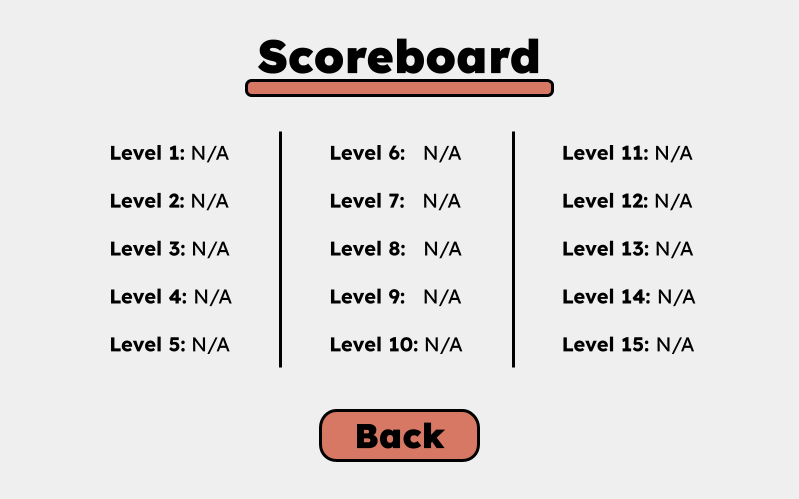
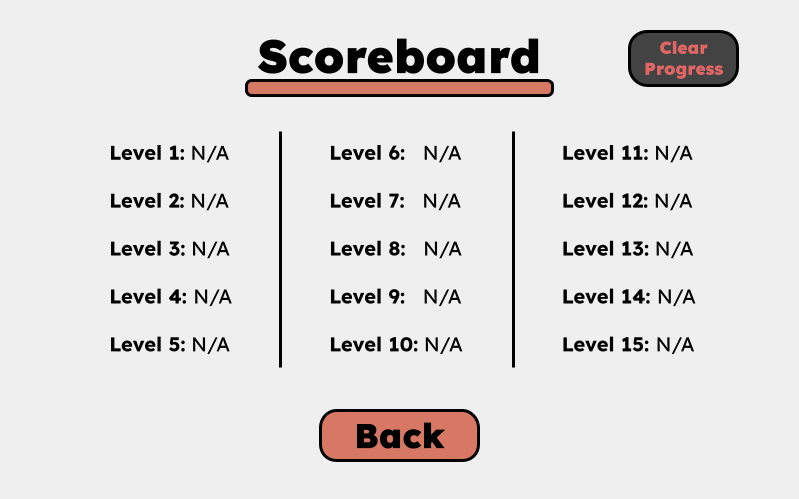
Added delete progress button

Changed region(s): [[0.781, 0.0601, 0.9312, 0.1804]]

diff --git a/main.py b/main.py
@@ -181,7 +181,6 @@ def displayBlankGameScreen(level):  # Displays the blank game screen
         displayCurrentLevelGoal(level)
     pygame.display.update()
 
-
 def displayWhiteScreen():  # Displays a white image on the entire screen
     # Creation of a white image (800x500) & placing the image on the screen
     whiteBackground = pygame.image.load('Assets/800x500WHITE.png').convert_alpha()
@@ -212,7 +211,6 @@ def displayCurrentLevelGoal(level):  # Displays the current level's goal to the 
     else:  # Error handling
         raise Exception("Inputted level is not valid.")
 
-
 def displayLevelExplanation(level):  # Displays the explanation for the level
     levelExplanationFileLocation = "Assets/Level" + str(level) + "Assets/Level " + str(level) + " Explanation.png"
     explanation = pygame.image.load(levelExplanationFileLocation).convert_alpha()
@@ -223,6 +221,13 @@ def displayLevelGoal(level):  # Displays the screen that further explains the le
     goal = pygame.image.load(levelEGoalFileLocation).convert_alpha()
     screen.blit(goal, origin)
         # STOP - Level Explanation, Goal Methods
+
+        # START - Scoreboard Menu Display Methods
+def displayScoreBoardMenuAreYouSure():
+    FileLocation = "Assets/Scoreboard AreYouSure Menu.png"
+    areYouSureMenu = pygame.image.load(FileLocation).convert_alpha()
+    screen.blit(areYouSureMenu, origin)
+        # STOP - Scoreboard Menu Display Methods
 
         # START - Non-image Based Display Methods
 def displayScoreBoardMenu():  # Displays the rough outline of the scoreboard menu
@@ -409,9 +414,35 @@ def howToPlayMenuHowDoIPlayButton_click(event):  # Displays the how to play menu
 def scoreBoardMenuBackButton_click(event):  # Back Button
     x, y = pygame.mouse.get_pos()
     if event.type == pygame.MOUSEBUTTONDOWN:
-        if (x > 320 and x < 480) and (y > 410 and y < 462):
-            print("Back Button Has Been Clicked")
-            return True
+        if ( state == "scoreBoardMenu"):
+            if (x > 320 and x < 480) and (y > 410 and y < 462):
+                print("Back Button Has Been Clicked")
+                return True
+
+def scoreBoardMenuClearProgressButton_click(event):  # Clears user progress
+    x, y = pygame.mouse.get_pos()
+    if event.type == pygame.MOUSEBUTTONDOWN:
+        if (state == "scoreBoardMenu"):
+            if (x > 628 and x < 740) and (y > 32 and y < 88):
+                print("Clear Progress Button Has Been Clicked")
+                return True
+
+            # START - Scoreboard Menu Are You Sure Buttons
+def scoreBoardAreYouSureMenuYesButton_click(event):
+    x, y = pygame.mouse.get_pos()
+    if event.type == pygame.MOUSEBUTTONDOWN:
+        if (state == "scoreBoardAreYouSureMenu"):
+            if (x > 150 and x < 352) and (y > 280 and y < 332):
+                print("Yes Button Has Been Clicked")
+                return True
+def scoreBoardAreYouSureMenuNoButton_click(event):
+    x, y = pygame.mouse.get_pos()
+    if event.type == pygame.MOUSEBUTTONDOWN:
+        if (state == "scoreBoardAreYouSureMenu"):
+            if (x > 440 and x < 644) and (y > 280 and y < 332):
+                print("No Button Has Been Clicked")
+                return True
+            # START - Scoreboard Menu Are You Sure Buttons
         # STOP - Scoreboard Menu
 
     # START - Credits Menu Buttons
@@ -481,6 +512,15 @@ def populateScoreBoardTextList(): # Populates a list of score board values based
         for line in f:  # Loops thru each line in the file
             scoreBoardTextList.append(line.strip())  # Appends the text from the file into a list to be used in order to display the scoreboard
     return scoreBoardTextList
+
+def clearUserProgress():  # Clears the scoreBoard.txt of data
+    scoreBoardFile = "scoreBoard.txt"
+    with open(scoreBoardFile, 'r') as file:
+        lines = file.readlines()
+
+    with open(scoreBoardFile, 'w') as file:
+        for _ in lines:
+            file.write('\n')
     # STOP - Scoreboard File Reading Methods
 
     # START - Highscore Checking method
@@ -539,7 +579,6 @@ def leftGateSelectButton(event):  # Changes the left qubit based on the selected
                 return True
 
 def resetLevelButton(event):  # Resets the level based on whatever level the player is currently on
-    # MISSING IMPLEMENTATION OF LEVEL-DEPENDENT RESET
     x, y = pygame.mouse.get_pos()
     if event.type == pygame.MOUSEBUTTONDOWN:
         if (state == "gamePlay"):
@@ -613,14 +652,6 @@ def levelSelectMenuBackButton(event, level):
             if (x > 635 and x < 772) and (y > 442 and y < 478):
                 print("Level Select Menu Back Button Has Been Clicked")
                 return True
-
-def displayGameUIAfterLevelSelectButtonClick():  # Displays the game screen fresh without resetting the circuit or gates
-    displayWhiteScreen()
-    displayBlankGameScreen(level)
-    displayCurrentGates(leftGateState, rightGateState)
-    displayMovesLeft(level, moveCount)
-    displayCurrentLevel(level)
-    showGame(game)
 
 def levelSelectSandboxButton(event):
     x, y = pygame.mouse.get_pos()
@@ -831,6 +862,14 @@ def bytes_to_pygame_image(bytes_io):
     # END - IMAGE CONVERSION
 
     # START - Quantum Method(s) Implementing "game_logic.py"
+def displayGameUIAfterLevelSelectButtonClick():  # Displays the game screen fresh without resetting the circuit or gates
+    displayWhiteScreen()
+    displayBlankGameScreen(level)
+    displayCurrentGates(leftGateState, rightGateState)
+    displayMovesLeft(level, moveCount)
+    displayCurrentLevel(level)
+    showGame(game)
+
 def initGame(): # init. a quantum game instance and returns said game
     game = QuantumGame(
         initialize = [],
@@ -1059,16 +1098,6 @@ while running:  # GAME LOOP
                     quit()
                     break
 
-            # Start Game Menu Button Control Flow
-            if ( state == "startGameMenu" ):
-                if ( startGameMenuBackButton_click(event) ):  # Back Button On Start Game Menu
-                    displayMainMenu()  # Displays the main menu
-                    state = "mainMenu"  # State change
-                    break
-                if ( startGameMenuGithubButton_click(event) ):  # Github Button On Start Game Menu
-                    openGithub()  # Opens the project's Github repository in a native google chrome instance
-                    break
-
             # How To Play Submenu(s) Button Control Flow
             if ( state == "howToPlayMenuSubMenu" ):
                 if ( howToPlayMenuBackButton_click(event) ):  # Back button (same function used in actual HTP menu)
@@ -1104,10 +1133,33 @@ while running:  # GAME LOOP
                     break
 
             # Scoreboard Menu Button Control Flow
-            if ( state == "scoreBoardMenu" ):
+            if ( state == "scoreBoardAreYouSureMenu"):  # Are you sure menu
+                x, y = pygame.mouse.get_pos()
+                print("X: " + str(x) + " Y: " + str(y))  # Helps with finding cursor for allocating space for buttons
+                if ( scoreBoardAreYouSureMenuYesButton_click(event)):  # If the yes button is clicked
+                    clearUserProgress()  # Clears the user's progress
+                    state = "scoreBoardMenu"  # State update
+                    displayScoreBoardMenu()  # Displays the scoreboard menu
+                    pygame.display.update()  # Update the screen
+                    break
+                pygame.display.update()  # Update the screen
+                if ( scoreBoardAreYouSureMenuNoButton_click(event)):  # If the no button is clicked
+                    state = "scoreBoardMenu"  # State update
+                    displayScoreBoardMenu()  # Displays the scoreboard menu
+                    pygame.display.update()  # Update the screen
+                    break
+
+
+
+            if ( state == "scoreBoardMenu" ):  # Normal scoreboard menu
                 if ( scoreBoardMenuBackButton_click(event) ):  # Back Button On How To Play Menu
                     displayMainMenu()  # Displays the main menu
                     state = "mainMenu"  # State change
+                    break
+                if ( scoreBoardMenuClearProgressButton_click(event) ):  # Clears the progress of the user
+                    displayScoreBoardMenuAreYouSure()  # Displays the are you sure menu
+                    pygame.display.update()  # Update the screen
+                    state = "scoreBoardAreYouSureMenu"  # State change
                     break
 
             # Credits Menu Button Control Flow
@@ -1654,7 +1706,7 @@ while running:  # GAME LOOP
                         rightGateState = 0  # ^
                     displayCurrentGates(leftGateState, rightGateState)  # Updates the current gate text
                     displayMovesLeft(level, moveCount)  # Displays the current moves left
-                    game = initGame()  # Initializes a blank game
+                    game = initGameBasedOnLevel(level)  # Initializes game based on the current level
                     showGame(game)  # Displays the qubits
 
                 # RIGHT GATE BUTTONS
@@ -1689,7 +1741,6 @@ while running:  # GAME LOOP
                     level += 1
                     game = initGameBasedOnLevel(level)
                     moveCount = 0
-
 
                 # MOVE CAP CONTROL FLOW FOR LEVELS (Basically loss detecting control flow)
                 if (level == "sandbox"):  # If the user is in sandbox mode reset moveCount to 0 to mitigate bugs
